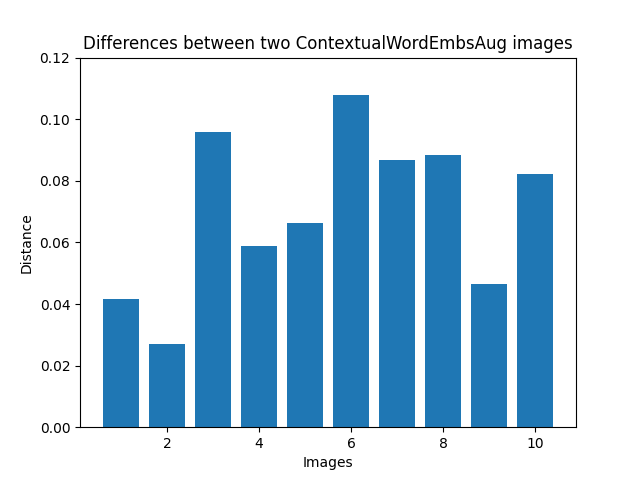
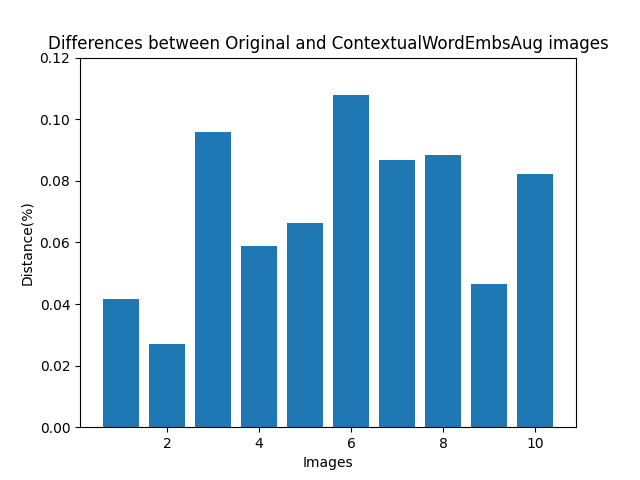
update

Changed region(s): [[0.0625, 0.0625, 0.9375, 0.125], [0.0312, 0.4062, 0.0625, 0.5938]]

diff --git a/Final/compute_difference.py b/Final/compute_difference.py
@@ -101,7 +101,7 @@ with open('Results/image_distance_CWE.npy', 'rb') as f1, open('Results/image_dis
     b = np.load(f2)
 print(f"\nCWE: {a}, \nRDW: {b}")
 
-def plot(data, data2, title, y_range, save):
+def plot(data, title, y_range, save):
     plt.bar(range(1, 11), data)
     plt.title(title)
     plt.xlabel("Images")
@@ -113,8 +113,8 @@ def plot(data, data2, title, y_range, save):
 def plot_combine(data, data2, title, y_range, save):
     width = 0.35
     ind = range(1, len(data) + 1)
-    plt.bar(ind, data, width, label='Data 1', color='blue')
-    plt.bar([p + width for p in ind], data2, width, label='Data 2', color='red')
+    plt.bar(ind, data, width, label='CWE', color='blue')
+    plt.bar([p + width for p in ind], data2, width, label='RDW', color='red')
     plt.legend()
     plt.title(title)
     plt.xlabel("Images")
@@ -125,10 +125,10 @@ def plot_combine(data, data2, title, y_range, save):
 
 
 # Visualization
-plot(distance_F1_CWE, "Differences between two ContextualWordEmbsAug prompts", 0.14, "Results/distant_CWE_prompts")
-plot(distance_F1_RDW, "Differences between two RandomWordAug prompts", 0.12, "Results/distant_RDW_prompt")
-plot(distance_image_CWE, "Differences between two ContextualWordEmbsAug images", 0.12, "Results/distant_CWE_images")
-plot(distance_image_RDW, "Differences between two RandomWordAug images", 0.22, "Results/distant_RDW_images")
+plot(distance_F1_CWE, "Differences between Original and ContextualWordEmbsAug prompts", 0.14, "Results/distant_CWE_prompts")
+plot(distance_F1_RDW, "Differences between Original and RandomWordAug prompts", 0.12, "Results/distant_RDW_prompt")
+plot(distance_image_CWE, "Differences between Original and ContextualWordEmbsAug images", 0.12, "Results/distant_CWE_images")
+plot(distance_image_RDW, "Differences between Original and RandomWordAug images", 0.22, "Results/distant_RDW_images")
 
-plot_combine(distance_F1_CWE, distance_F1_RDW, "Differences between two prompts", 0.14, "Results/distant_prompts")
+plot_combine(distance_F1_CWE, distance_F1_RDW, "Differences between prompts", 0.14, "Results/distant_prompts")
 plot_combine(distance_image_CWE, distance_image_RDW, "Differences between images", 0.22, "Results/distant_images")
